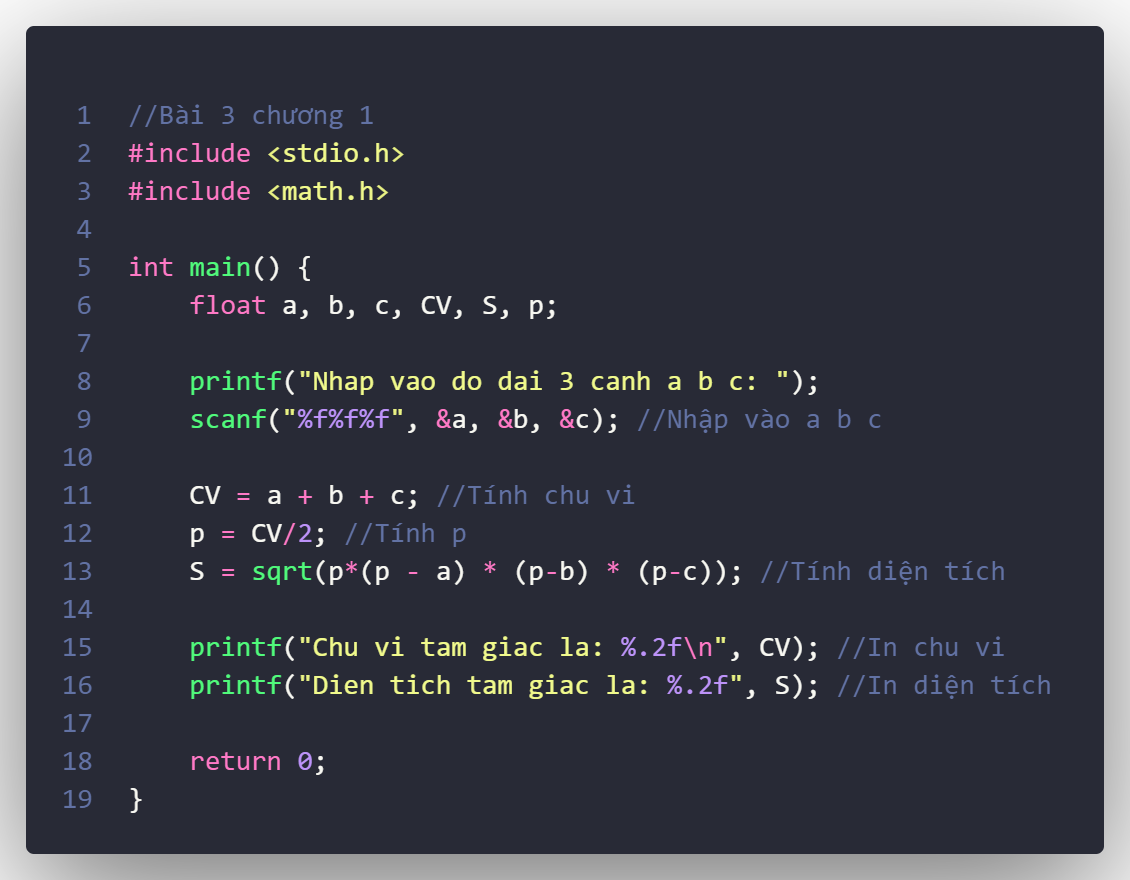
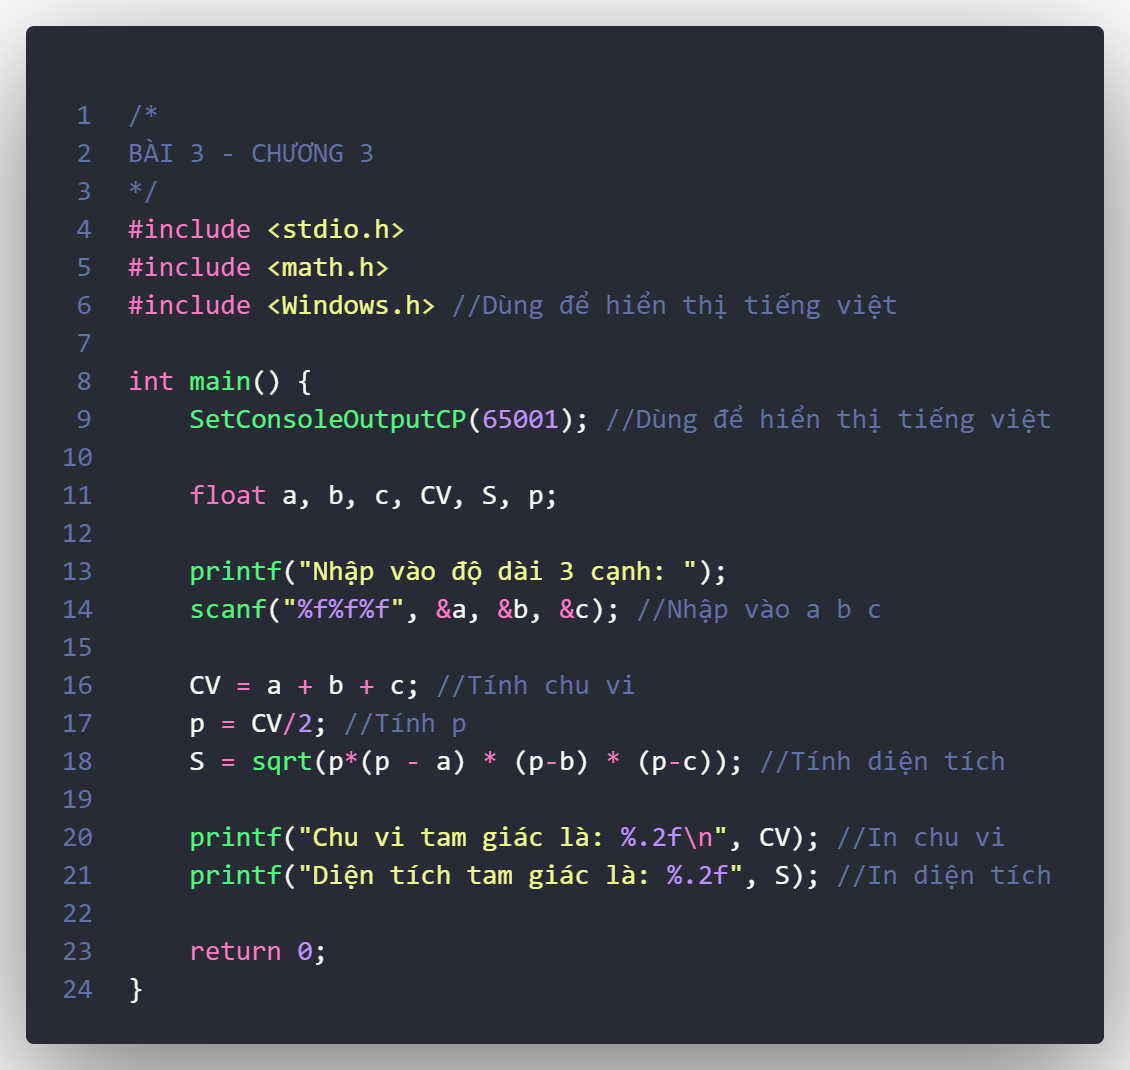
Chuong 3

diff --git a/chuong_03/bai5.c b/chuong_03/bai5.c
@@ -1,21 +1,26 @@
-//Bài 5 chương 1
+/*
+BÀI 5 - CHƯƠNG 3
+*/
 #include <stdio.h>
 #include <math.h>
+#include <Windows.h> //Dùng để hiển thị tiếng việt
 
 int main() {
+    SetConsoleOutputCP(65001); //Dùng để hiển thị tiếng việt
+    
     float x1, x2, y1, y2;
     float he_so_goc, khoang_cach;
 
-    printf("Nhap vao toa do x1 y1: ");
+    printf("Nhập vào toạ độ x1 y1: ");
     scanf("%f%f", &x1, &y1); //Nhập vào x1 và y1
-    printf("Nhap vao toa do x2 y2: ");
+    printf("Nhập vào toạ độ x2 y2: ");
     scanf("%f%f", &x2, &y2); //Nhập vào x2 y2
 
     he_so_goc = (y2 - y1)/(x2-x1); // Tính hệ số góc
     khoang_cach = sqrt((y2-y1)*(y2-y1) + (x2-x1)*(x2-x1)); //Tính khoảng cách
 
-    printf("He so goc la: %.2f\n", he_so_goc); // In hệ số góc
-    printf("Khoang cach la: %.2f", khoang_cach); //In khoảng cách
+    printf("Hệ số góc là: %.2f\n", he_so_goc); // In hệ số góc
+    printf("Khoảng cách là: %.2f", khoang_cach); //In khoảng cách
 
     return 0;
 }

diff --git a/chuong_03/bai3.c b/chuong_03/bai3.c
@@ -1,19 +1,24 @@
-//Bài 3 chương 1
+/*
+BÀI 3 - CHƯƠNG 3
+*/
 #include <stdio.h>
 #include <math.h>
+#include <Windows.h> //Dùng để hiển thị tiếng việt
 
 int main() {
+    SetConsoleOutputCP(65001); //Dùng để hiển thị tiếng việt
+    
     float a, b, c, CV, S, p;
 
-    printf("Nhap vao do dai 3 canh a b c: ");
+    printf("Nhập vào độ dài 3 cạnh: ");
     scanf("%f%f%f", &a, &b, &c); //Nhập vào a b c
 
     CV = a + b + c; //Tính chu vi
     p = CV/2; //Tính p
     S = sqrt(p*(p - a) * (p-b) * (p-c)); //Tính diện tích
 
-    printf("Chu vi tam giac la: %.2f\n", CV); //In chu vi
-    printf("Dien tich tam giac la: %.2f", S); //In diện tích
+    printf("Chu vi tam giác là: %.2f\n", CV); //In chu vi
+    printf("Diện tích tam giác là: %.2f", S); //In diện tích
     
     return 0;
 }

diff --git a/chuong_03/bai2.c b/chuong_03/bai2.c
@@ -1,18 +1,23 @@
-//Bài 2 chương 1
+/*
+BÀI 2 - CHƯƠNG 3
+*/
 #include <stdio.h>
+#include <Windows.h> //Dùng để hiển thị tiếng việt
 
 int main() {
+    SetConsoleOutputCP(65001); //Dùng để hiển thị tiếng việt
+    
     const float Pi = 3.14;
     float r, CV, S;
 
-    printf("Nhap vao ban kinh r: ");
-    scanf("%f", &r); //Nhập vào đường kính r
+    printf("Nhập vào bán kính R: ");
+    scanf("%f", &r); //Nhập vào bán kính r
 
     CV = 2*Pi*r; //Tính chu vi
     S = Pi*r*r; //Tính diện tích
 
-    printf("Chu vi hinh tron la: %.2f\n", CV); //In chu vi
-    printf("Dien tich hinh tron la: %.2f", S); //In diện tích
+    printf("Chu vi hình tròn là: %.2f\n", CV); //In chu vi
+    printf("Diện tích hình tròn là: %.2f", S); //In diện tích
     
     return 0;
 }

diff --git a/chuong_03/bai8.c b/chuong_03/bai8.c
@@ -1,15 +1,20 @@
-//Bài 8 chương 1
+/*
+BÀI 8 - CHƯƠNG 3
+*/
 #include <stdio.h>
+#include <Windows.h> //Dùng để hiển thị tiếng việt
 
 int main() {
+    SetConsoleOutputCP(65001); //Dùng để hiển thị tiếng việt
+    
     float Toan, Ly, Hoa, Trung_binh;
 
-    printf("Nhap vao dien tro Toan Ly Hoa: ");
+    printf("Nhập vào điểm Toán Lý Hoá: ");
     scanf("%f%f%f", &Toan, &Ly, &Hoa); //Nhập vào điểm toán lý hoá
 
     Trung_binh = (Toan + Ly + Hoa)/3; //Tính trung bình
 
-    printf("Diem trung binh la: %.2f", Trung_binh); //In trung bình
+    printf("Điểm trung bình là: %.2f", Trung_binh); //In trung bình
     
     return 0;
 }

diff --git a/chuong_03/bai7.c b/chuong_03/bai7.c
@@ -1,15 +1,20 @@
-//Bài 7 chương 1
+/*
+BÀI 7 - CHƯƠNG 3
+*/
 #include <stdio.h>
+#include <Windows.h> //Dùng để hiển thị tiếng việt
 
 int main() {
+    SetConsoleOutputCP(65001); //Dùng để hiển thị tiếng việt
+    
     float R1, R2, R3, R;
 
-    printf("Nhap vao dien tro R1 R2 R3: ");
+    printf("Nhập vào điện trở R1 R2 R3: ");
     scanf("%f%f%f", &R1, &R2, &R3); //Nhập vào điện trở R1 R2 R3
 
     R = 1/(1/R1 + 1/R2 + 1/R3); // Tính R
 
-    printf("Dien tro tuong duong la: %.2f", R); //In R
+    printf("Điện trở tương đương là: %.2f", R); //In R
     
     return 0;
 }

diff --git a/chuong_03/bai6.c b/chuong_03/bai6.c
@@ -1,14 +1,19 @@
-//Bài 6 chương 1
+/*
+BÀI 6 - CHƯƠNG 3
+*/
 #include <stdio.h>
+#include <Windows.h> //Dùng để hiển thị tiếng việt
 
 int main() {
+    SetConsoleOutputCP(65001); //Dùng để hiển thị tiếng việt
+    
     char c;
 
-    printf("Nhap vao 1 ky tu: ");
+    printf("Nhập vào 1 ký tự: ");
     scanf("%c", &c); //Nhập vào ký tự 
 
-    printf("Ma ascii cua '%c' la %d\n", c, c);
-    printf("Ky tu tiep theo la: %c", (int)c + 1);
+    printf("Mã ASCII của '%c' là %d\n", c, c);
+    printf("Ký tự tiếp theo là: %c", (int)c + 1);
 
     return 0;
 }

diff --git a/chuong_03/bai4.c b/chuong_03/bai4.c
@@ -1,14 +1,19 @@
-//Bài 4 chương 1
+/*
+BÀI 4 - CHƯƠNG 3
+*/
 #include <stdio.h>
 #include <math.h>
+#include <Windows.h> //Dùng để hiển thị tiếng việt
 
 int main() {
+    SetConsoleOutputCP(65001); //Dùng để hiển thị tiếng việt
+    
     float a, x;
 
-    printf("Nhap vao a x: ");
+    printf("Nhập vào a x: ");
     scanf("%f%f", &a, &x); //Nhập vào a x
 
-    printf("Log a cua x la: %.2f", log(x)/log(a));
+    printf("Log a của x là: %.2f", log(x)/log(a));
 
     return 0;
 }

diff --git a/chuong_03/bai9.c b/chuong_03/bai9.c
@@ -1,10 +1,15 @@
-//Bài 9 chương 1
+/*
+BÀI 9 - CHƯƠNG 3
+*/
 #include <stdio.h>
+#include <Windows.h> //Dùng để hiển thị tiếng việt
 
 int main() {
+    SetConsoleOutputCP(65001); //Dùng để hiển thị tiếng việt
+    
     int day, month, year;
 
-    printf("Nhap vao ngay thang nam: ");
+    printf("Nhập vào ngày tháng năm: ");
     scanf("%d%d%d", &day, &month, &year); //Nhập vào ngày tháng năm
 
     printf("%d/%d/%d", day, month, year); //In ra màn hình

diff --git a/chuong_03/bai10.c b/chuong_03/bai10.c
@@ -1,10 +1,15 @@
-//Bài 10 chương 1
+/*
+BÀI 10 - CHƯƠNG 3
+*/
 #include <stdio.h>
+#include <Windows.h> //Dùng để hiển thị tiếng việt
 
 int main() {
+    SetConsoleOutputCP(65001); //Dùng để hiển thị tiếng việt
+    
     int i;
 
-    printf("Nhap vao 1 so nguyen co 3 chu so: ");
+    printf("Nhập vào 1 số nguyên: ");
     scanf("%d", &i); //Nhập vào 1 số nguyên VD: 456
 
     int tram, chuc, don_vi;

diff --git a/chuong_03/bai1.c b/chuong_03/bai1.c
@@ -1,4 +1,6 @@
-//Bài 1 chương 1
+/*
+BÀI 1 - CHƯƠNG 3
+*/
 #include <stdio.h>
 
 int main() {
